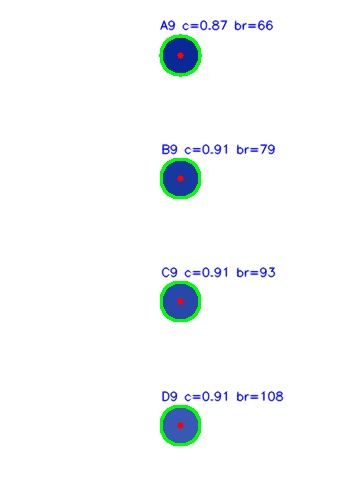
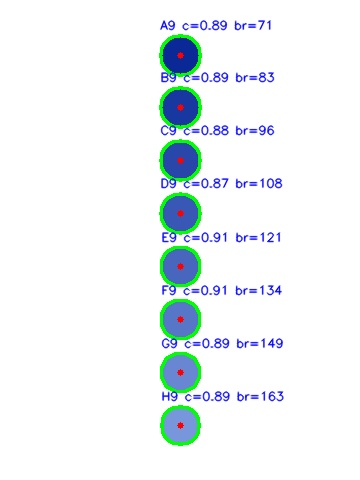
ai agent printing demo 2 colors

diff --git a/src/agents/vial_print_agent.py b/src/agents/vial_print_agent.py
@@ -27,8 +27,10 @@ Flags:
 """
 from __future__ import annotations
 
+import os
 import re
 import sys
+from contextlib import contextmanager, redirect_stderr, redirect_stdout
 from datetime import datetime
 
 from src.utils.paths import AGENT_LOG_DIR, ensure_project_dirs
@@ -118,6 +120,40 @@ SIMULATION_ONLY_PROMPT = (
     "  - Finish after build_vial_print_protocol(), validate_vial_print_matrix(), "
     "and verify_print_droplets_mock() pass.\n"
 )
+
+_SCHEMA_WARNING_FRAGMENT = "Key 'additionalProperties' is not supported in schema, ignoring"
+
+
+class _SchemaWarningFilter:
+    """Forward stream writes except for Vertex's noisy tool-schema warning."""
+
+    def __init__(self, wrapped):
+        self._wrapped = wrapped
+        self._buffer = ""
+
+    def write(self, text: str) -> int:
+        self._buffer += text
+        while "\n" in self._buffer:
+            line, self._buffer = self._buffer.split("\n", 1)
+            if _SCHEMA_WARNING_FRAGMENT not in line:
+                self._wrapped.write(line + "\n")
+        return len(text)
+
+    def flush(self) -> None:
+        if self._buffer and _SCHEMA_WARNING_FRAGMENT not in self._buffer:
+            self._wrapped.write(self._buffer)
+        self._buffer = ""
+        self._wrapped.flush()
+
+
+@contextmanager
+def _suppress_schema_warning():
+    """Silence Vertex schema noise unless explicitly disabled for debugging."""
+    if os.getenv("OT2_SHOW_SCHEMA_WARNINGS", "").strip().lower() in {"1", "true", "yes"}:
+        yield
+        return
+    with redirect_stdout(_SchemaWarningFilter(sys.stdout)), redirect_stderr(_SchemaWarningFilter(sys.stderr)):
+        yield
 
 
 # ── Deterministic offline path (no LLM) ───────────────────────────────────────────
@@ -249,7 +285,8 @@ def _repl(initial_input: str | None, rate_limited: bool, simulation_only: bool) 
             break
 
         chat_history.append(("user", user_input))
-        result = rate_guard.invoke_with_limit(executor, {"messages": chat_history})
+        with _suppress_schema_warning():
+            result = rate_guard.invoke_with_limit(executor, {"messages": chat_history})
         final_msg = result["messages"][-1]
         chat_history.append(final_msg)
 
